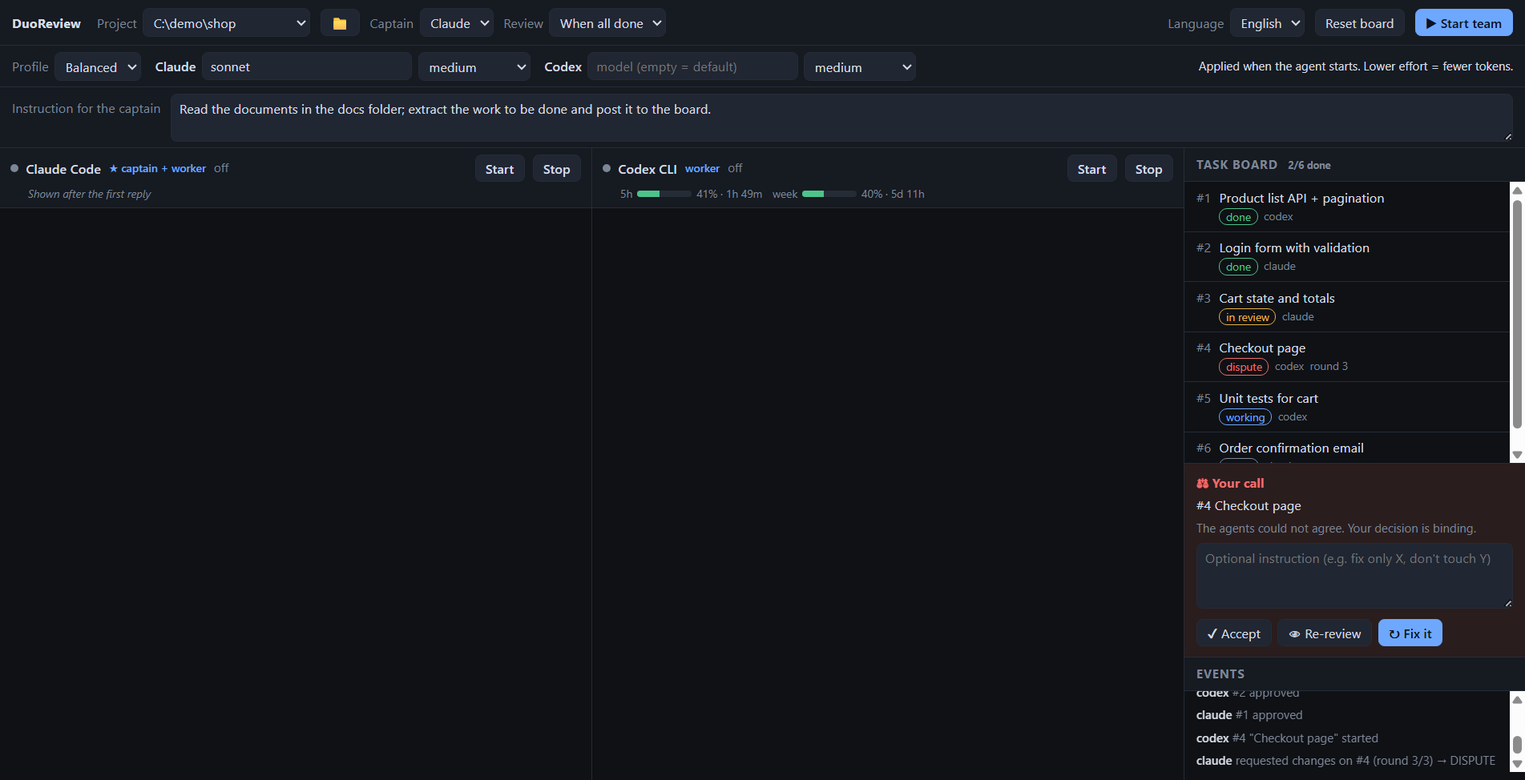
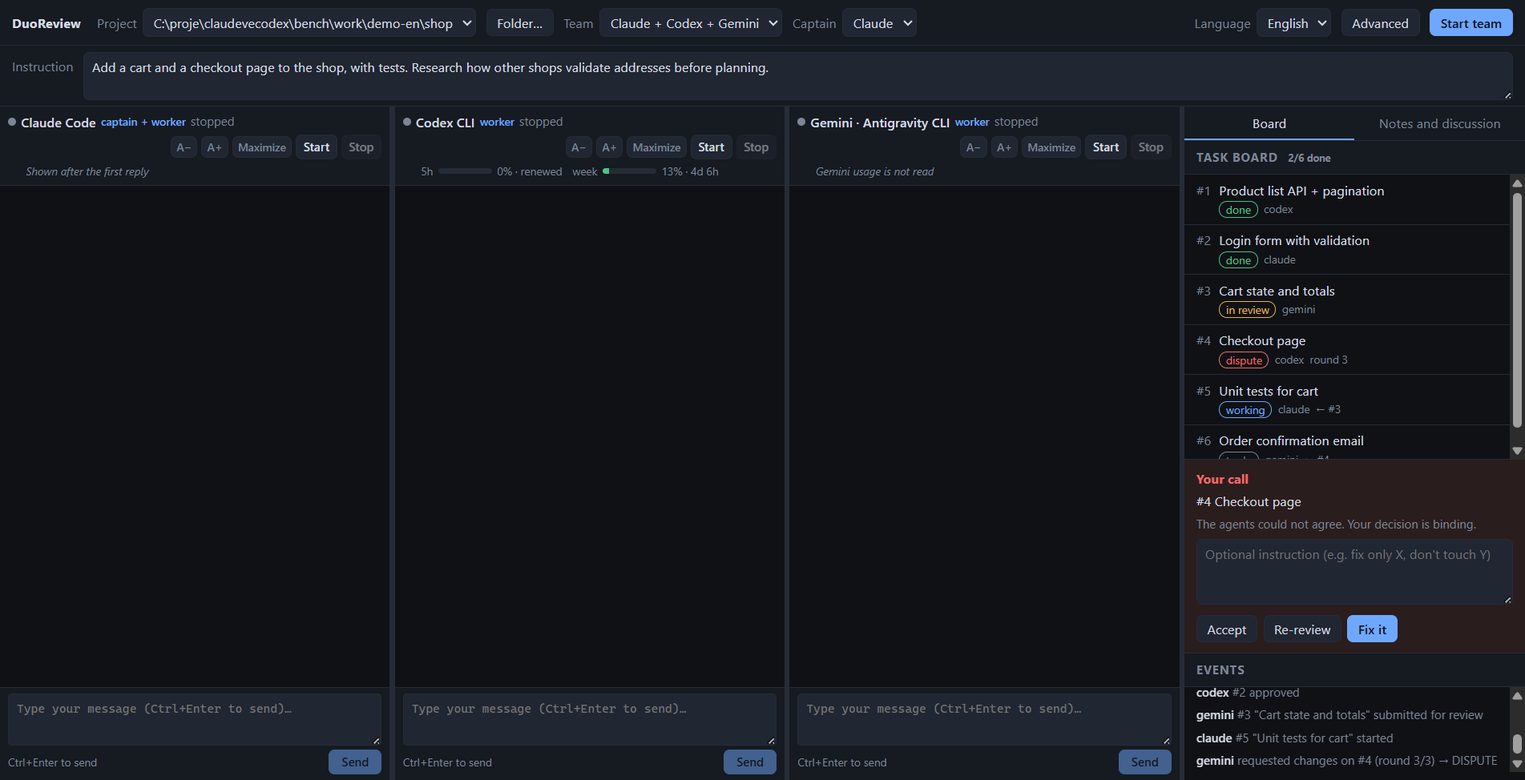
Docs: demo board script, new screenshots, README, changelog, GitHub post
- bench/demo.mjs writes a demo board (en/tr) and takes the task-detail
  and notes screenshots.
- README (en/tr): new features, full tool list, screenshot command,
  session-resume and subagent limits.
- package.json: description covers Gemini; new tests added to npm test.

diff --git a/README.md b/README.md
@@ -5,7 +5,7 @@
 [Türkçe](README.tr.md) · MIT · Node ≥ 22.13 · Windows ✔ · macOS/Linux: untested, see [Limitations](#limitations)
 
 ![DuoReview](docs/screenshot-en.png)
-*Screenshot with demo data.*
+*Screenshots use demo data (`bench/demo.mjs`). More: [task detail](docs/task-en.png) · [notes and cross review](docs/notes-en.png).*
 
 DuoReview is an [MCP](https://modelcontextprotocol.io) server plus a small Electron app. It runs the
 `claude`, `codex` and `agy` (Antigravity CLI, for Gemini) CLIs side by side in up to three terminals and gives them one shared task board.
@@ -34,6 +34,14 @@ Codex reviews Claude, Gemini reviews Codex and Claude reviews Gemini; in a pair 
 - **Style rules for the agents.** The rules sent to both agents ban the usual filler in code and prose: comments that restate the code, unrequested abstractions and files, openers, closing recaps, praise, emoji. Reviewers treat unrequested files and unrelated changes as `major`.
 - **Leaves your global config alone where the CLI allows it.** MCP wiring is passed per session (`--mcp-config` for Claude, `-c` overrides for Codex). `agy` reads MCP servers and tool permissions only from its global settings, so when Gemini starts the app adds a `duoreview` server (`agy mcp add`) and the `mcp(duoreview/*)` permission, and removes both when Gemini stops. Board data is stored outside your project, so your repo stays clean.
 - **English and Turkish UI, prompts and tool texts** (language menu in the header).
+- **Resizable workspace.** Drag the dividers between the agent panes and next to the side panel (double-click evens them out); `A−` / `A+` or Ctrl + wheel change one terminal's font size (9–24); *Maximize* shows one agent alone; the message box grows up to half the pane. Sizes are remembered.
+- **Reviewer shown and changeable.** A task in review or rework shows who reviews it. If that agent is out of quota or stopped, open the task and pick another team member as its reviewer; the task's owner cannot be chosen.
+- **Task detail.** Click a task on the board to read its spec, acceptance criteria with the reviewer's evidence for each, summary, review history and the task's own diff.
+- **Sessions survive a restart.** A stopped agent's button reads *Resume* and continues its previous CLI session; *New session* (or *With new sessions* next to *Start team*) starts clean. An agent restarted while the team is running gets its role and the brief again. See [Limitations](#limitations) for what can be resumed.
+- **Subagent rule.** Under *Advanced*, choose what the agents are told about their own subagents: off, research only (default), or also writing to the files of the task they hold. Subagents are told not to call DuoReview tools. This is an instruction in the rules, not a technical block.
+- **Install check.** At startup the app runs each CLI with `--version`; a missing CLI is shown on that agent's bar and on the empty board, next to a three-step guide for first use.
+- **Notifications.** When the window is not focused, a desktop notification and a flashing taskbar icon tell you that an agent waits for your approval or that a task became a dispute.
+- **Fewer controls up front.** The header keeps project, team, captain, language and *Start team*; models, review mode, kickoff, verify command, subagent rule, skills and board reset are under *Advanced*.
 
 ## Quick start
 
@@ -45,10 +53,10 @@ npm install
 npm run app -- --project "C:\path\to\your\project"
 ```
 
-Then pick the team and the captain, write a brief ("add a login page and its tests", or "analyse this project and list what is missing"), and press **Start team**.
+The empty board lists the steps and shows which CLIs were found. Pick the team and the captain, write a brief ("add a login page and its tests", or "analyse this project and list what is missing"), and press **Start team**.
 The app starts the agents in your project folder, wires up the MCP server and types one short line into each terminal; the rules and your brief reach the agents through the MCP server.
 
-Kickoff has two settings. *All analyse and discuss* is the default and costs more tokens: one analysis per agent plus up to 4 messages each for the kickoff and the plan (6 with three agents). *Captain plans alone* skips that and goes straight to the task board.
+Kickoff (under *Advanced*) has three settings. *All analyse and discuss* is the default and costs more tokens: one analysis per agent plus up to 4 messages each for the kickoff and the plan (6 with three agents). *Cross review (claim by claim)* replaces the free discussion: each analysis lists its technical claims (`C` ids); every partner gives each claim a verdict with evidence (`agree`, `disagree`, `unsure`, `alternative`); only contested claims go back to their author, who defends, revises or withdraws; the objectors then judge again, at most two verdict rounds in all; the captain records accepted, rejected and unresolved claims, missing evidence and required checks (`post_consensus`), then plans. Every claim, verdict, rebuttal and decision has an id and names what it answers, and the server records which content it delivered to which agent; the Notes tab and the Markdown export show the whole record. *Captain plans alone* skips all of this and goes straight to the task board.
 
 Other commands:
 
@@ -57,6 +65,18 @@ Other commands:
 | `npm run build` | Compile the MCP server (`tsc`) |
 | `npm start` | Run the MCP server alone over stdio (needs `AGENT_ID` and `DUOREVIEW_DIR`) |
 | `npm test` | Build and run all tests (no model quota is used) |
+| `node bench/demo.mjs <dir> --lang en` | Write a demo board into `<dir>` and print the screenshot command (below) |
+
+Regenerating the screenshots (after `npm run build`; `DUOREVIEW_FAKE=1` starts `cmd.exe` instead of the agents, and the app's own settings are left alone because the demo uses its own profile folder):
+
+```powershell
+node bench/demo.mjs bench/work/demo-en --lang en --shots docs   # demo board + docs/task-en.png, docs/notes-en.png
+$env:DUOREVIEW_FAKE = "1"
+$d = "$PWD\bench\work\demo-en"
+npx electron . --user-data-dir=$d\profile --project $d\shop --data $d\data --lang en --screenshot docs/screenshot-en.png
+```
+
+Use `--lang tr` and `demo-tr` for the Turkish set. `--data <dir>` points the app at a board folder of your choosing; `--screenshot <file>` saves the window and exits.
 
 ### Using the MCP server without the app
 
@@ -74,9 +94,9 @@ Set the same `DUOREVIEW_DIR` for every agent and a different `AGENT_ID` (`claude
 }
 ```
 
-Tools: `next_action`, `post_tasks`, `assign_task`, `drop_task`, `claim_task`, `submit_task`, `review_task`, `status`, `post_note`, `discuss`, `open_thread`, `read_thread`, `send_prompt`, `read_inbox`, `triage`.
+Tools: `next_action`, `post_tasks`, `assign_task`, `drop_task`, `claim_task`, `submit_task`, `review_task`, `status`, `post_note`, `discuss`, `open_thread`, `read_thread`, `assess`, `rebut`, `post_consensus`, `read_claims`, `send_prompt`, `read_inbox`, `triage`.
 `next_action` hands the agent its next task directly; `claim_task` is only for picking a specific one. `status(id)` returns one task in full.
-Set the kickoff with a row in the `meta` table (`kickoff` = `joint` or `solo`, default `solo`) and the team with `team` (e.g. `claude,codex,gemini`, default `claude,codex`); the app does this for you.
+Set the kickoff with a row in the `meta` table (`kickoff` = `joint`, `cross` or `solo`, default `solo`) and the team with `team` (e.g. `claude,codex,gemini`, default `claude,codex`); the app does this for you. The subagent rule is the `subagents` row (`off`, `research` or `scoped`, default `research`).
 See [TEAM.md](TEAM.md) for the loop the agents follow.
 
 ## How it works
@@ -114,7 +134,7 @@ npm run bench -- report                                        # bench/work/repo
 
 Run the reference fixes first: some tests need network or a platform the local Docker does not provide, and an instance whose reference fix fails here cannot be solved by anyone. `--valid` keeps only the instances that `gold` resolved.
 Each instance is checked out at its base commit without history, so an agent cannot find the fix with `git log`. The problem statement is the brief; hints and the hidden tests are not shown.
-Options: `--ids a,b`, `--limit`, `--timeout <min>` (default 60), `--captain`, `--kickoff solo|joint`, `--review immediate|after_all`, `--verify "<cmd>"`, `--model-claude`, `--effort-codex`, and so on. A stopped run resumes where it left off.
+Options: `--ids a,b`, `--limit`, `--timeout <min>` (default 60), `--captain`, `--kickoff solo|joint|cross`, `--review immediate|after_all`, `--verify "<cmd>"`, `--model-claude`, `--effort-codex`, and so on. A stopped run resumes where it left off.
 `eval` needs Docker: it runs `swebench` in a `python:3.11` container with the Docker socket mounted, and pulls several GB of images per repository. The report lists resolved instances, time, turns, tokens, Claude's cost, change requests, disputes and what happened to the alternatives.
 Some repositories contain paths Windows cannot check out; those instances are recorded as `setup_failed` and skipped.
 
@@ -124,6 +144,8 @@ Some repositories contain paths Windows cannot check out; those instances are re
 - If a CLI is installed somewhere unusual, point to it: `DUOREVIEW_CLAUDE_BIN=/path/to/claude`, `DUOREVIEW_CODEX_BIN=/path/to/codex`, `DUOREVIEW_GEMINI_BIN=/path/to/agy`.
 - All agents share one working directory (conflicts are prevented with the `touches` check, not git worktrees).
 - Two or three agents: Claude Code, Codex CLI and Gemini through the Antigravity CLI.
+- Session resume: Claude continues the session id the app gave it. Codex is resumed only when the app finds exactly one Codex session log for this project that contains the tag DuoReview returned in that session's first `next_action` reply; otherwise it starts a new session. Gemini always starts a new session (`agy` conversations could not be matched to a project reliably).
+- The subagent rule is text in the agents' rules. The MCP server cannot tell a subagent from its parent agent, and the app does not restrict a subagent's tools or file access.
 - Gemini's MCP entry is global, so run Gemini in one DuoReview window at a time. There is no usage meter for Gemini yet.
 - Source-only distribution for now: run it from a clone (`npm install` + `npm run app`). No npm package or packaged installer yet.
 - `node:sqlite` is still experimental in Node, so you will see a warning.

diff --git a/README.tr.md b/README.tr.md
@@ -5,7 +5,7 @@
 [English](README.md) · MIT · Node ≥ 22.13 · Windows ✔ · macOS/Linux: denenmedi, bkz. [Sınırlar](#sınırlar)
 
 ![DuoReview](docs/screenshot-tr.png)
-*Ekran görüntüsü örnek verilerle hazırlanmıştır.*
+*Ekran görüntüleri örnek verilerle hazırlanmıştır (`bench/demo.mjs`). Diğerleri: [görev ayrıntısı](docs/task-tr.png) · [notlar ve çapraz inceleme](docs/notes-tr.png).*
 
 DuoReview bir [MCP](https://modelcontextprotocol.io) sunucusu ve küçük bir Electron uygulamasıdır.
 `claude`, `codex` ve `agy` (Antigravity CLI, Gemini için) CLI'larını en çok üç terminalde yan yana çalıştırır ve hepsine ortak bir görev panosu verir.
@@ -34,6 +34,14 @@ Codex'inkini Gemini, Gemini'ninkini Claude; iki kişilik takımda ikisi birbirin
 - **Ajanlar için üslup kuralları.** İki ajana giden kurallar kodda ve metinde alışılmış dolguyu yasaklar: kodu tekrar eden yorum, istenmemiş soyutlama ve dosya, giriş cümlesi, kapanış özeti, övgü, emoji. İnceleyen, istenmemiş dosyayı ve ilgisiz değişikliği `major` sayar.
 - **CLI izin verdiği sürece global ayarlarına dokunmaz.** MCP bağlantısı oturum başına verilir (Claude'a `--mcp-config`, Codex'e `-c`). `agy` MCP sunucusunu ve araç iznini yalnız global ayarından okur; bu yüzden Gemini başlarken uygulama `duoreview` sunucusunu (`agy mcp add`) ve `mcp(duoreview/*)` iznini ekler, Gemini kapanınca ikisini de siler. Pano verisi projenin dışında tutulur, reponun kirlenmez.
 - **Türkçe ve İngilizce** arayüz, prompt ve araç metinleri (üst çubuktaki dil menüsü).
+- **Boyutlandırılabilir çalışma alanı.** Ajan bölmelerinin arasındaki ve yan panelin yanındaki ayırıcılar sürüklenir (çift tıklama eşitler); `A−` / `A+` ya da Ctrl + tekerlek tek bir terminalin yazı boyutunu değiştirir (9–24); *Büyüt* tek ajanı gösterir; mesaj kutusu bölmenin yarısına kadar büyür. Boyutlar hatırlanır.
+- **İnceleyen görünür ve değiştirilebilir.** İncelemedeki ya da düzeltmedeki görevde kimin incelediği yazar. O ajanın kotası dolduysa ya da kapalıysa görevi açıp takımdan başka birini inceleyici seçersin; görevin sahibi seçilemez.
+- **Görev ayrıntısı.** Panodaki göreve tıklayınca tarifi, kabul kriterleri ve inceleyenin her biri için yazdığı kanıt, özet, inceleme geçmişi ve görevin kendi diff'i açılır.
+- **Oturum yeniden açılınca sürer.** Durmuş ajanın düğmesi *Sürdür* olur ve önceki CLI oturumuna devam eder; *Yeni oturum* (ya da *Takımı başlat* yanındaki *Yeni oturumlarla*) temiz başlatır. Takım çalışırken yeniden açılan ajana rolü ve talimat yeniden gider. Neyin sürdürülebildiği [Sınırlar](#sınırlar) bölümünde.
+- **Subagent kuralı.** *Gelişmiş* altında ajanlara kendi subagent'ları için ne söyleneceğini seçersin: kapalı, yalnız araştırma (varsayılan) ya da ayrıca üstlendikleri görevin dosyalarına yazma. Subagent'lara DuoReview araçlarını çağırmamaları söylenir. Bu, kurallardaki bir talimattır; teknik engel değildir.
+- **Kurulum denetimi.** Açılışta uygulama her CLI'yı `--version` ile çalıştırır; eksik CLI o ajanın çubuğunda ve boş panoda, ilk kullanım için üç adımlı yönergenin yanında gösterilir.
+- **Bildirim.** Pencere odakta değilken bir ajan onayını bekliyorsa ya da bir görev ihtilafa düştüyse masaüstü bildirimi gelir ve görev çubuğu simgesi yanıp söner.
+- **Üstte daha az denetim.** Üst çubukta proje, takım, kaptan, dil ve *Takımı başlat* kalır; modeller, inceleme kipi, açılış, doğrulama komutu, subagent kuralı, skill'ler ve pano sıfırlama *Gelişmiş* altındadır.
 
 ## Hızlı başlangıç
 
@@ -45,10 +53,10 @@ npm install
 npm run app -- --project "C:\projenin\yolu"
 ```
 
-Takımı ve kaptanı seç, talimatı yaz ("giriş sayfası ve testlerini ekle" ya da "projeyi analiz edin, eksikleri çıkarın") ve **Takımı başlat**'a bas.
+Boş pano adımları ve hangi CLI'ların bulunduğunu gösterir. Takımı ve kaptanı seç, talimatı yaz ("giriş sayfası ve testlerini ekle" ya da "projeyi analiz edin, eksikleri çıkarın") ve **Takımı başlat**'a bas.
 Uygulama ajanları proje klasöründe başlatır, MCP sunucusunu bağlar ve her terminale tek kısa satır yazar; kurallar ve talimatın ajanlara MCP sunucusundan gider.
 
-Açılışın iki ayarı var. *Hepsi incelesin, tartışsın* varsayılandır ve daha çok token harcar: ajan başına bir inceleme, açılış ve plan için en çok dörder mesaj (üç ajanda altışar). *Yalnız kaptan planlasın* bunu atlar, doğrudan görev panosuna geçer.
+Açılışın (*Gelişmiş* altında) üç ayarı var. *Hepsi incelesin, tartışsın* varsayılandır ve daha çok token harcar: ajan başına bir inceleme, açılış ve plan için en çok dörder mesaj (üç ajanda altışar). *Çapraz inceleme (iddia iddia)* serbest tartışmanın yerini alır: her analiz teknik iddialarını (`C` kimlikli) listeler; her ortak her iddiaya kanıtla hüküm verir (`agree`, `disagree`, `unsure`, `alternative`); yalnız itirazlı iddialar sahibine döner, sahibi savunur, düzeltir ya da geri çeker; sonra itiraz edenler yeniden hükmeder, toplam en çok iki hüküm turu. Kaptan kabul edilen, reddedilen ve çözülemeyen iddiaları, eksik kanıtları ve gerekli doğrulamaları yazar (`post_consensus`), sonra planlar. Her iddia, hüküm, savunma ve kararın kimliği vardır ve neye cevap verdiğini taşır; sunucu hangi içeriği hangi ajana teslim ettiğini kaydeder. Notlar sekmesi ve Markdown dışa aktarma tüm kaydı gösterir. *Yalnız kaptan planlasın* bunların hepsini atlar, doğrudan görev panosuna geçer.
 
 Hakem bir ajanın terminaline yalnız ajan boştayken ve ekranda onay sorusu ya da menü yokken yazar (Codex'in açılıştaki güncelleme ve klasöre güven menüleri ile `agy`nin klasöre güven sorusu dahil). Enter'a basmadan önce yankının durulmasını bekler, ajan çalışmaya başlamadıysa yeniden basar; çünkü Codex hızlı gelen karakterlerin arasındaki Enter'ı satır sonu sayar.
 
@@ -57,6 +65,20 @@ Hakem bir ajanın terminaline yalnız ajan boştayken ve ekranda onay sorusu ya 
 | `npm run build` | MCP sunucusunu derler (`tsc`) |
 | `npm start` | MCP sunucusunu tek başına çalıştırır (`AGENT_ID` ve `DUOREVIEW_DIR` gerekir) |
 | `npm test` | Derler ve tüm testleri çalıştırır (model kotası harcamaz) |
+| `node bench/demo.mjs <klasör> --lang tr` | `<klasör>` içine demo panosu yazar ve ekran görüntüsü komutunu basar (aşağıda) |
+
+Ekran görüntülerini yeniden üretmek için (`npm run build` sonrası; `DUOREVIEW_FAKE=1` ajanlar yerine `cmd.exe` açar, demo kendi profil klasörünü kullandığı için uygulamanın ayarlarına dokunulmaz):
+
+```powershell
+node bench/demo.mjs bench/work/demo-tr --lang tr --shots docs   # demo panosu + docs/task-tr.png, docs/notes-tr.png
+$env:DUOREVIEW_FAKE = "1"
+$d = "$PWD\bench\work\demo-tr"
+npx electron . --user-data-dir=$d\profile --project $d\shop --data $d\data --lang tr --screenshot docs/screenshot-tr.png
+```
+
+İngilizce takım için `--lang en` ve `demo-en` kullan. `--data <klasör>` uygulamayı seçtiğin pano klasörüne yönlendirir; `--screenshot <dosya>` pencereyi kaydedip çıkar.
+
+MCP araçları: `next_action`, `post_tasks`, `assign_task`, `drop_task`, `claim_task`, `submit_task`, `review_task`, `status`, `post_note`, `discuss`, `open_thread`, `read_thread`, `assess`, `rebut`, `post_consensus`, `read_claims`, `send_prompt`, `read_inbox`, `triage`.
 
 Uygulama olmadan MCP kullanımı ve ayar örneği için [İngilizce README](README.md#using-the-mcp-server-without-the-app) bölümüne bak.
 Ajanların izlediği döngü [TEAM.md](TEAM.md) dosyasındadır.
@@ -88,6 +110,8 @@ Seçenekler ve değerlendirme ayrıntısı [İngilizce README](README.md#benchma
 - CLI alışılmadık bir yere kurulduysa yolu ver: `DUOREVIEW_CLAUDE_BIN=/yol/claude`, `DUOREVIEW_CODEX_BIN=/yol/codex`, `DUOREVIEW_GEMINI_BIN=/yol/agy`.
 - Ajanlar aynı çalışma klasörünü paylaşır (çakışma git worktree ile değil, `touches` denetimiyle önlenir).
 - İki ya da üç ajan: Claude Code, Codex CLI ve Antigravity CLI üzerinden Gemini.
+- Oturum sürdürme: Claude, uygulamanın verdiği oturum kimliğiyle devam eder. Codex yalnız, uygulama bu projeye ait ve o oturumun ilk `next_action` cevabında DuoReview'in döndürdüğü etiketi içeren tam bir Codex oturum günlüğü bulursa sürdürülür; bulamazsa yeni oturum açılır. Gemini her zaman yeni oturumla başlar (`agy` konuşmaları projeyle güvenilir biçimde eşlenemedi).
+- Subagent kuralı ajanların kurallarındaki bir metindir. MCP sunucusu subagent'ı üst ajandan ayıramaz, uygulama da subagent'ın araçlarını ya da dosya erişimini kısıtlamaz.
 - Gemini'nin MCP kaydı global olduğu için Gemini'yi aynı anda tek bir DuoReview penceresinde çalıştır. Gemini için kullanım göstergesi henüz yok.
 - Şimdilik yalnız kaynak koddan dağıtım: klonla, `npm install` ve `npm run app`. npm paketi veya kurulum dosyası henüz yok.
 - `node:sqlite` Node'da hâlâ deneysel, bu yüzden bir uyarı görürsün.

diff --git a/docs/github-post.md b/docs/github-post.md
@@ -1,0 +1,105 @@
+# GitHub post
+
+Text for the repository announcement (release notes, a Discussions post or the "About" blurb). English first, Turkish below. Image paths are relative to the repository root.
+
+## English
+
+### Short description (About field, 120 characters)
+
+Claude Code, Codex and Gemini split a job, review each other's work with evidence, and leave disputes to you.
+
+### Post
+
+**DuoReview: three coding agents on one task board, each reviewed by another vendor's agent**
+
+![DuoReview](screenshot-en.png)
+
+DuoReview is an MCP server plus an Electron app. It runs the `claude`, `codex` and `agy` (Gemini) CLIs side by side in your project folder and gives them one shared task board. You write a brief, pick a captain and press Start team.
+
+What happens next:
+
+1. Each agent analyses the brief on its own. Notes stay hidden until all are in.
+2. They argue the differences, either in a free discussion or claim by claim: every technical claim gets a verdict with evidence from each partner, contested claims go back to their author, and the captain records what was accepted, rejected or left open.
+3. The captain splits the work into tasks with the files each one touches and measurable acceptance criteria. The partners have to agree to the plan.
+4. Every task is reviewed by a different agent than the one that wrote it. The reviewer gets the task's own diff from the server, marks each acceptance criterion with evidence, and can only block on blocker or major findings.
+5. After three review rounds without agreement the task becomes a dispute and you decide: accept, re-review, or send it back with an instruction.
+
+![Task detail](task-en.png)
+
+New in this version:
+
+- Resizable panes, per-terminal font size, maximize one agent; sizes are remembered.
+- Click a task to read its spec, criteria with the reviewer's evidence, review history and diff.
+- A stopped agent can be resumed in its previous CLI session (Claude always; Codex when its session can be identified with certainty; Gemini starts new).
+- A setting for what agents are told about using their own subagents: off, research only, or limited to the files of their task. It is an instruction in the rules, not a technical block.
+- Install check for the three CLIs at startup and a three-step guide on the empty board.
+- Desktop notification when an agent waits for your approval or a task becomes a dispute while the window is in the background.
+- Cross-review kickoff with a full record of claims, verdicts, rebuttals and decisions, exportable as Markdown.
+
+![Notes and cross review](notes-en.png)
+
+Try it:
+
+```powershell
+git clone https://github.com/BunyaminGP/duoreview
+cd duoreview
+npm install
+npm run app -- --project "C:\path\to\your\project"
+```
+
+Requirements: Node.js 22.13 or newer, and the `claude` and `codex` CLIs installed and logged in; `agy` for Gemini is optional. The agents run with your user rights in your project folder, so use it on projects you would let a coding agent edit, and keep commits manual.
+
+Limits worth knowing before you start: developed and tested on Windows only; all agents share one working directory (overlaps are prevented by each task's file list, not by git worktrees); no usage meter for Gemini; source-only distribution. The README lists the rest.
+
+Feedback, especially from macOS and Linux, is welcome in Issues.
+
+## Türkçe
+
+### Kısa açıklama (About alanı)
+
+Claude Code, Codex ve Gemini işi bölüşür, birbirinin işini kanıtla inceler, anlaşamadıklarını size bırakır.
+
+### Gönderi
+
+**DuoReview: tek görev panosunda üç kodlama ajanı, her işi başka şirketin ajanı inceliyor**
+
+![DuoReview](screenshot-tr.png)
+
+DuoReview bir MCP sunucusu ve bir Electron uygulamasıdır. `claude`, `codex` ve `agy` (Gemini) CLI'larını proje klasörünüzde yan yana çalıştırır ve hepsine ortak bir görev panosu verir. Talimatı yazar, kaptanı seçer, Takımı başlat'a basarsınız.
+
+Sonrası:
+
+1. Her ajan talimatı kendi başına inceler. Notlar hepsi yazana kadar birbirinden gizlidir.
+2. Farkları tartışırlar: serbest tartışmayla ya da iddia iddia. İkinci yolda her teknik iddiaya her ortak kanıtla hüküm verir, itirazlı iddia sahibine döner, kaptan neyin kabul edildiğini, reddedildiğini ya da açık kaldığını kayda geçirir.
+3. Kaptan işi görevlere böler; her görevin dokunacağı dosyalar ve ölçülebilir kabul kriterleri yazılır. Plan ortakların onayından geçer.
+4. Her görevi, onu yazandan başka bir ajan inceler. İnceleyene görevin kendi diff'i sunucudan gelir; her kabul kriterini kanıtla işaretler ve yalnız blocker ya da major bulguyla görevi durdurabilir.
+5. Üç inceleme turunda uzlaşılamazsa görev ihtilaf olur ve kararı siz verirsiniz: kabul, yeniden inceleme ya da talimatla geri gönderme.
+
+![Görev ayrıntısı](task-tr.png)
+
+Bu sürümde gelenler:
+
+- Boyutlandırılabilir bölmeler, terminal başına yazı boyutu, tek ajanı büyütme; boyutlar hatırlanır.
+- Göreve tıklayınca tarif, inceleyenin kanıtlarıyla kriterler, inceleme geçmişi ve diff açılır.
+- Durmuş ajan önceki CLI oturumuyla sürdürülebilir (Claude her zaman; Codex, oturumu kesin olarak tanınabildiğinde; Gemini yeni oturumla başlar).
+- Ajanlara kendi subagent'ları için ne söyleneceğini belirleyen ayar: kapalı, yalnız araştırma ya da görevin dosyalarıyla sınırlı. Bu, kurallardaki bir talimattır; teknik engel değildir.
+- Açılışta üç CLI için kurulum denetimi ve boş panoda üç adımlı yönerge.
+- Pencere arka plandayken bir ajan onayınızı beklerse ya da bir görev ihtilafa düşerse masaüstü bildirimi.
+- İddia, hüküm, savunma ve kararların tam kaydını tutan, Markdown'a aktarılabilen çapraz inceleme açılışı.
+
+![Notlar ve çapraz inceleme](notes-tr.png)
+
+Denemek için:
+
+```powershell
+git clone https://github.com/BunyaminGP/duoreview
+cd duoreview
+npm install
+npm run app -- --project "C:\projenizin\yolu"
+```
+
+Gerekenler: Node.js 22.13 ya da üstü, kurulu ve giriş yapılmış `claude` ve `codex` CLI'ları; Gemini için `agy` isteğe bağlıdır. Ajanlar sizin kullanıcı haklarınızla proje klasörünüzde çalışır; bir kodlama ajanının düzenlemesine razı olacağınız projelerde kullanın, commit'i elle yapın.
+
+Başlamadan bilinmesi gereken sınırlar: yalnız Windows'ta geliştirildi ve denendi; ajanlar aynı çalışma klasörünü paylaşır (çakışma git worktree ile değil, görevin dosya listesiyle önlenir); Gemini için kullanım göstergesi yok; yalnız kaynak koddan dağıtım. Kalanı README'de.
+
+Geri bildirimi, özellikle macOS ve Linux'tan, Issues bölümünde bekliyorum.

diff --git a/CHANGELOG.md b/CHANGELOG.md
@@ -1,6 +1,16 @@
 # Changelog
 
 ## 0.1.0 — unreleased
+- Reviewer per task: the board shows who reviews a task in review or rework, and the task detail view lets you hand the review to another team member (for example when the reviewer is out of quota). The choice is stored on the task and falls back to the team order if that agent leaves the team or becomes the task's owner.
+- Resizable workspace: draggable dividers between the agent panes and next to the side panel (double-click evens them out), per-terminal font size (`A−` / `A+`, Ctrl + wheel, 9–24), maximize one pane, message box up to half the pane; sizes are saved. The terminal is resized only when its columns or rows change.
+- Sessions: a stopped agent can be resumed. Claude continues the session id the app assigned; Codex only when exactly one of its session logs for the project contains the tag returned in the first `next_action` reply; Gemini always starts new. *New session* and *With new sessions* start clean. Whether the team was started is read from the board, so an agent restarted after the app was reopened gets its role and the brief again.
+- Subagent rule (`subagents` = `off` | `research` | `scoped`, default `research`): one line in the rules sent to the agents, chosen under *Advanced*. An instruction, not a technical block; described in TEAM.md.
+- Task detail view: spec, acceptance criteria with the last reviewer's evidence, summary, review history and diff (`taskDetail` in the server code, `task:get` in the app).
+- First use: install check (`--version` of each CLI at startup, missing ones shown on the agent bar and the empty board), three-step guide on the empty board, header reduced to seven controls with the rest under *Advanced*, in-app confirm dialog instead of `alert`/`confirm`.
+- Desktop notification and taskbar flash when the window is not focused and an agent waits for approval or a task becomes a dispute.
+- Less repeated work: the board is sent to the window only when its content changes, task and event lists are rebuilt only when they change, settings are cached in memory and usage files are re-read only when their modification time changes.
+- `--data <dir>` app argument; `bench/demo.mjs` writes a demo board (en/tr) and takes the task-detail and notes screenshots; README screenshots regenerated.
+- Cross-review kickoff (`kickoff` = `cross`): analyses carry technical claims; partners judge each claim with evidence, objections go back to the claim's author for defend/revise/withdraw, a second verdict round runs only on contested claims (at most two), and the captain records accepted/rejected/unresolved claims, missing evidence and required checks with `post_consensus` before planning. New tools `assess`, `rebut`, `post_consensus`, `read_claims`; `post_note` takes `claims`. Every item has an id (`N`, `C`, `A`, `R`, `D`) and names what it answers; deliveries to each agent are stored, and a verdict or rebuttal is refused until its subject was delivered.
 - Evidence-based review: the server snapshots the working tree when a task is taken and submitted; the reviewer gets the task's own diff plus the files changed outside its `touches`.
 - Acceptance criteria per task; the reviewer marks each with evidence and cannot approve with an unmet one.
 - `alternative` in `review_task` and the captain's `triage` step: a simpler or faster way proposed in review becomes a task or is rejected with a reason.
